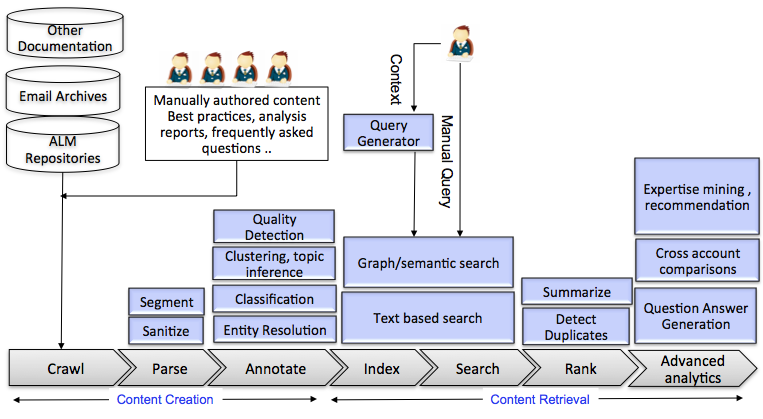
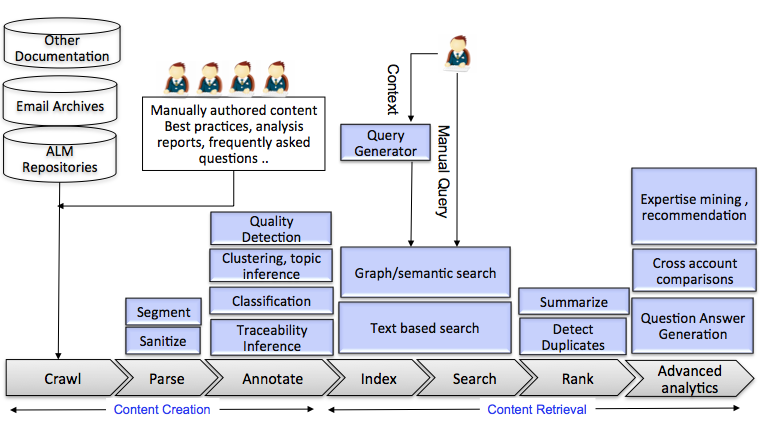
completed bib for KM section

Changed region(s): [[0.0, 0.0, 0.9961, 0.9928]]

diff --git a/km_new.tex b/km_new.tex
@@ -40,8 +40,8 @@ leverage learning and solutions from past client engagements in the context of a
 new similar engagement, even when members from the past projects are not around.
 
 The need for organization-level knowledge bases is well established in the
-management literature~\cite{}. Equally well known is the fact that creating an
-effective organization-wide knowledge base is very challenging~\cite{}. There
+management literature~\cite{davenport2000working,bollinger2001managing}. Equally well known is the fact that creating an
+effective organization-wide knowledge base is very challenging~\cite{McKinsey:1999,Harvard:1999,Ernst:1997}. There
 are challenges in: (1) \textit{knowledge creation}---how to codify explicit and
 tacit knowledge and motivate individuals to contribute; (2) \textit{knowledge
   retrieval}---data versus information versus knowledge; (3) \textit{knowledge
@@ -49,7 +49,7 @@ tacit knowledge and motivate individuals to contribute; (2) \textit{knowledge
 knowledge. Alavi and Leidner~\cite{Alavi:2001} present a good overview of
 research issues in organization knowledge management. Prior research suggests
 that IT is incapable of capturing organizational knowledge
-\cite{malhotra2004knowledge,Davenport:1997}, but also postulates that IT is the
+\cite{malhotra2004knowledge,mcdermott2000information}, but also postulates that IT is the
 strongest enabler for organization knowledge management systems (OKMS).
 
 Next, we present three scenarios illustrating the need for OKMS in service
@@ -90,7 +90,9 @@ another client. Thus, if the person attempting to resolve the current ticket had
 access to previously resolved tickets addressing similar problems, they could be
 much more efficient and effective at their task.  Therefore, a knowledge base
 that stores past resolved tickets across clients would be a useful
-organization-wide resource.
+organization-wide resource. 
+
+In a way this knowledge base would be similar to question and answer forums we see on various software languages, tools, open source projects on the WWW. 
 
 \subsubsection{Design-build Projects}
 
@@ -115,7 +117,9 @@ through the repository to learn about the variations of the process to be
 implemented and, if the client requirements are not too different from a past
 solution, even reuse the solution in totality or parts. This can reduce the
 overall cost and also potentially let the service provider staff the team with
-people with less domain experience.
+people with less domain experience. 
+
+Code reuse has been an area of interest to software engineering community, be it reuse of a couple of code lines, API use or even complete solutions \cite{Reiss:2009,Holmes:2013}. Much of this work can be applied in an services organization setting too.
 
 \subsubsection{Service Improvement}
 
@@ -135,11 +139,12 @@ taken. Moreover, if a similar high-ticket-volume problem was seen in the past in
 another client's payroll system, information about the actions taken for that
 client could help the team resolve the problem for client~A.
 
-Again in this scenario, an organization-wide knowledge base that (1) captures key
+There are a number of organizations that gather and report quantitative benchmark information (qualitiative as well as productivity) for software projects and business applications depending on language used to code, number of users etc. CAST, Software Engineering Institute are some examples of such organizations. However, considering services organizations are doing multiple software implementations for multiple clients, an organization-wide knowledge base that (1) captures key
 operational metrics per application (or at a more granular level, such as by
 problem area) per client and the past improvement actions taken, and (2) allows
 comparisons between clients with similar applications and problems encountered,
-would be very useful.
+would help augment what is publicly available and be more useful.
+
 
 \begin{figure*}
 	\center
@@ -158,11 +163,14 @@ Figure ~\ref{fig-km} shows the advanced the architecture for an OKMS system in s
 
 \subsubsection{Content Creation}
 
-The first challenge in building an OKMS system is identifying what data should be put in the repository and how to obtain the data. An organization has the option of mandating that each of it's employees contributes their learnings to the OKMS system. Some examples of manual knowledge creations are: (1) frequently asked question, where employee outlines the typical solutions to some common problem tickets they have resolved (2) postmortem reports, usage stories, experience reports\cite{desouza:2005}, that project members can create after they solve a key issue in the project. To enable solution reuse, services organizations often invest in creating software product families \cite{clements2002software}. However, here it's pre-anticipated what could be some solutions that could be of interest to multiple clients in a particular domain such as healthcare and then those solutions are created with appropriate points for variability built in, so solution can be customized for any client intending to use it.  Once a project is completed, employees are also encouraged to identify reusable components in software they created and share them in the knowledge base. This approach of manual content creation adds extra burden on the employees. An open research challenge is to motivate employees to contribute high quality content in the knowledge base \cite{}. Open source forums such as stack exchange have experimented with elaborate incentive mechanisms in forms of badges to ensure questions and answer contributions on their forums \cite{}. In services organizations are reputation building incentives enough or incentives should translate to monetory benefits and/or career progression? 
+The first challenge in building an OKMS system is identifying what data should be put in the repository and how to obtain the data. An organization has the option of mandating that each of it's employees contributes their learnings to the OKMS system. Some examples of manual knowledge creations are: (1) frequently asked question, where employee outlines the typical solutions to some common problem tickets they have resolved (2) postmortem reports, usage stories, experience reports\cite{desouza:2005}, that project members can create after they solve a key issue in the project. To enable solution reuse, services organizations often invest in creating software product families \cite{clements2002software}. However, here it's pre-anticipated what could be some solutions that could be of interest to multiple clients in a particular domain such as healthcare and then those solutions are created with appropriate points for variability built in, so solution can be customized for any client intending to use it.  Once a project is completed, employees are also encouraged to identify reusable components in software they created and share them in the knowledge base. This approach of manual content creation adds extra burden on the employees. An open research challenge is to motivate employees to contribute high quality content in the knowledge base \cite{hendriks1999share}. Open source forums such as stack exchange have experimented with elaborate incentive mechanisms in forms of badges to ensure questions and answer contributions on their forums \cite{vasilescu2014social}. In services organizations are reputation building incentives enough or incentives should translate to monetory benefits and/or career progression /cite{bartol2002encouraging}? 
 
-Another approach for content creation is to auto-harvest artifacts produced in the SDLC lifecycle and put these in the knowledge management system. Complete traceability from requirement through code to test cases, along with their content is extractable from Application Lifecycle Management tools and this can act as solution packs to put in the repository. Similarly for ticket resolution, information about problem ticket and it's resolution is extractable from ticket management systems. Account teams periodically report on various important metrics on the applications being maintained in the client landscape such as ticket volumes, code changes, service improvement actions taken. These reports can be auto pushed into the knowledge repository. The main challenge here is crawling and parsing of this data from various tools and work product templates being used across clients and collating this information into a standardized format that can be pushed into the knowledge repository. Many of this work products are documents in proprietery formats such as Microsoft word, power point slides, visio diagrams, excel sheets. How to automate content extraction from client specific work products into the standard format used by knowledge repository is again a direction for research. One approach is to write model to model transforms where a project admin can specify the mapping \cite{debdoot:2010:scc}. Another challenge is that requisite traceability information that is required to understand complete context of how and why an artifact was produced, might be missing. This is because tools being used to create different SDLC artifacts have not ben integrated. In such cases, research can help come up with various heuristics to infer traceablity \cite{}. For example, if making a code commit, the developer puts in a comment like "Fixed Bug \#145", then with high confidence the change is to fix "Bug \#145" and corresponding edge between code file and bug report can be created. In text mining literature, given pieces of text the process to resolve entities and detect relationships therein is called entity resolution \cite{}. Entity resolutions techniques customized for SDLC data can help alleviate challenges in standardizing auto-harvested content.
+Another approach for content creation is to auto-harvest artifacts produced in the SDLC lifecycle and put these in the knowledge management system. Complete traceability from requirement through code to test cases, along with their content is extractable from Application Lifecycle Management tools and this can act as solution packs to put in the repository. Similarly for ticket resolution, information about problem ticket and it's resolution is extractable from ticket management systems. Account teams periodically report on various important metrics on the applications being maintained in the client landscape such as ticket volumes, code changes, service improvement actions taken. These reports can be auto pushed into the knowledge repository. The main challenge here is crawling and parsing of this data from various tools and work product templates being used across clients and collating this information into a standardized format that can be pushed into the knowledge repository. Many of this work products are documents in proprietery formats such as Microsoft word, power point slides, visio diagrams, excel sheets. How to automate content extraction from client specific work products into the standard format used by knowledge repository is again a direction for research. One approach is to write model to model transforms where a project admin can specify the mapping \cite{debdoot:2010:scc}. Another challenge is that requisite traceability information that is required to understand complete context of how and why an artifact was produced, might be missing. This is because tools being used to create different SDLC artifacts have not been integrated. There is need to auto infer traceability between artifacts
+For example, if making a code commit, the developer puts in a comment like "Fixed Bug \#145", then with high confidence the change is to fix "Bug \#145" and traceability edge between code file and bug report should be auto-created. 
+. Tracability inference is an active area of research \cite{spanoudakis2005software}. Some proposed approaches use information retrieval (IR) techniques, others use traceability rules, special integrators, and inference axioms.
 
-The content put in the OKMS should be organized in such a way that retrieval becomes easier when someone needs it. The general practice is to classify OKMS content against pre-defined taxonomies. One taxonomy is obviously the object type i.e. requirement, code, problem ticket (further segmented into problem description, resolution). Another taxonomy captures the domain the artifact was produced in i.e. industry type and process area e.g. \cite{apqc,bph}. Another taxonomy is the technology used. Organizations spend effort building and maintaining these taxonomies. For every data that is put into the knowledge base, the content needs to be manually categorized against these pre-defined taxonomies. Classification (machine learning) based approaches can be used to auto-categorize content to these pre-defined taxonomies. These techniques rely on the availability of equal proportion of positive and negative samples to train a learning model. However, due to unavailability of training data and/or lack of differentiating features, usual learning techniques such as naive bayes, support vector machines, decision trees, might end up not giving desired efficacy (measured as precision and recall). There is need to customize more advanced learning approaches such as adaptive learning, ensemble techniques or develop new techniques that work well with SDLC data. Another interesting area for research is to explore how to help grow the taxonomy over time based on content coming in the knowledge base. Techniques such as text clustering, topic modeling \cite{} help group together similar looking content and infer topics out of them. 
+
+The content put in the OKMS should be organized in such a way that retrieval becomes easier when someone needs it. The general practice is to classify OKMS content against pre-defined taxonomies. One taxonomy is obviously the object type i.e. requirement, code, problem ticket (further segmented into problem description, resolution). Another taxonomy captures the domain the artifact was produced in i.e. industry type and process area e.g. \cite{apqc,bph}. Another taxonomy is the technology used. Organizations spend effort building and maintaining these taxonomies. For every data that is put into the knowledge base, the content needs to be manually categorized against these pre-defined taxonomies. Pattern matching and machine learning based classification approaches /cite{bishop2006pattern} can be used to auto-categorize content to these pre-defined taxonomies. These techniques rely on the availability of equal proportion of positive and negative samples to train a learning model. However, due to unavailability of training data and/or lack of differentiating features, usual learning techniques such as naive bayes, support vector machines, decision trees, might end up not giving desired efficacy (measured as precision and recall). There is need to customize more advanced learning approaches such as adaptive learning, ensemble techniques or develop new techniques that work well with SDLC data. Another interesting area for research is to explore how to help grow the taxonomy over time based on content coming in the knowledge base. Techniques such as clustering \cite{Berkhin06}, topic modeling \cite{Blei:2012} help group together similar looking content and infer topics out of them. 
 
 The content in a OKMS database comes from various client projects. There are strict privacy constraints around what data is client confidential and hence cannot be shared. Within a single artifact itself, there might be small portions of content that are client confidential. E.g. a problem ticket might content the contact information of the user who encountered the information. How to remove client confidential data from artifacts put in the repository, how to anonimize the content so as to not disclose client identity and how to ensure that only authorized users and roles have access.
 
@@ -172,17 +180,18 @@ To summarize, content creation in OKMS provides multiple oppurtunities where res
 
 \subsubsection{Content Retrieval}
 
-A good OKMS system is one that not only had good content, but one that makes it easy to retrieve the content when needed. Typical ways to retrieve content from a knowledge base are: (1) keyword based search where user specifies a couple of words (s)he is looking for and all artifacts in the repository that contain the words from user query are returned, (2) faceted (or navigational) search where user is shown a hierarchy structure (taxonomy) and can browse information by choosing one or more values from each of the pre-defined categories. Various information retrieval models such as vector space models \cite{}, probablistic models \cite{}, latent semantic index \cite{} exist that can be used here. But inspite of easy to use search technologies being available, prior studies report that knowledge retrieval from organization wide repositories remains a challenge. As per \cite{idc,idc2}, while employees spend 15\% to 35\% of their time searching for information in an enterprise, they are successful less than 50\% of the time in finding what they are looking for. 
+A good OKMS system is one that not only had good content, but one that makes it easy to retrieve the content when needed. Typical ways to retrieve content from a knowledge base are: (1) keyword based search where user specifies a couple of words (s)he is looking for and all artifacts in the repository that contain the words from user query are returned, (2) faceted (or navigational) search where user is shown a hierarchy structure (taxonomy) and can browse information by choosing one or more values from each of the pre-defined categories. Various language based information retrieval models \cite{manning2008introduction} such as vector space models, probablistic models, latent semantic index exist that can be used here. But inspite of easy to use search technologies being available, prior studies report that knowledge retrieval from organization wide repositories remains a challenge. As per \cite{idc,idc2}, while employees spend 15\% to 35\% of their time searching for information in an enterprise, they are successful less than 50\% of the time in finding what they are looking for. 
 
-Non-availability of content or poorly organized content can be one reason for this. Another reason could be the inadequacy of the query itself that are used to retrive the content. Suppose a user is trying to find problem tickets that resolved similar issues to what (s)he has been assigned. (S)he would pick up a couple of words from the ticket that describe the problem and use it to query the knowledge base. However, these words might not be discriminative enough and user might end up getting too many or too little search hits. Another approach could be to use complete content in the ticket and use it as query. However in this case, the search engine might end up returning irrelevant results as equal weightage was given to all words in the problem ticket. \cite{Sinha:2012} tries to address this issue by giving more weightage to those words in the query that belong to ticket title. \cite{Ashok:2009} parses out different datatypes from a problem ticket such as description, application information, stack trace and using a different query/search mechanism for each. E.g. instead of just specifying "null pointer exception", the query generated from a problem ticket could be---description: contains following bag of words \{null, pointer, exception\}, process: is equal to "order to cash", stack trace: contains foo.*bar. The results obtained from such a query are likely to be more precise than what a keyword search would yield. A challenge with this approach is how to compose the various clauses in the query---are they "anded" or "ored" or a combination. Another challenge is how much weightage to give to each clause when ranking the search results \cite{Debdoot:2011:bpm}. Moreover, recently contextual search \cite{} has been gaining momentum. Contextual search tries to better capture a user's information need by augmenting the query with contextual information extracted from search context. It would be an interesting direction for future research to see for each of the knowledge needs in services organizations, what can make up the context, how to use this context to create the query and how to weigh different clauses in the query. 
+Non-availability of content or poorly organized content can be one reason for this. Another reason could be the inadequacy of the query itself that are used to retrive the content. Suppose a user is trying to find problem tickets that resolved similar issues to what (s)he has been assigned. (S)he would pick up a couple of words from the ticket that describe the problem and use it to query the knowledge base. However, these words might not be discriminative enough and user might end up getting too many or too little search hits. Another approach could be to use complete content in the ticket and use it as query. However in this case, the search engine might end up returning irrelevant results as equal weightage was given to all words in the problem ticket. \cite{Sinha:2012} tries to address this issue by giving more weightage to those words in the query that belong to ticket title. \cite{Ashok:2009} parses out different datatypes from a problem ticket such as description, application information, stack trace and using a different query/search mechanism for each. E.g. instead of just specifying "null pointer exception", the query generated from a problem ticket could be---description: contains following bag of words \{null, pointer, exception\}, process: is equal to "order to cash", stack trace: contains foo.*bar. The results obtained from such a query are likely to be more precise than what a keyword search would yield. A challenge with this approach is how to compose the various clauses in the query---are they "anded" or "ored" or a combination. Another challenge is how much weightage to give to each clause when ranking the search results \cite{Debdoot:2011:bpm}. Moreover, recently contextual search \cite{wen2004probabilistic,kraft2005q} has been gaining momentum. Contextual search tries to better capture a user's information need by augmenting the query with contextual information extracted from search context. It would be an interesting direction for future research to see for each of the knowledge needs in services organizations, what can make up the context, how to use this context to create the query and how to weigh different clauses in the query. 
 
-Any search based system would return multiple results. For the user it becomes a chore in itself to go over each of the search results and identify if it is relevant or not. Techniques that can help the user easily comprehend the relevance of the returned results are much needed. Text based search engines highlight the matching words between query and content of the artifact returned. However, when the query becomes complex (as above), keyword highlighting is not of much help. In text processing domain, summarization is one approach that is used to help end users get a quick idea of what the content is about. In \cite{Mani:2012,Rastkar:2010} authors present different techniques to summarize bug reports. Research can help in developing summarization techniques that work for other SDLC artifact such as code, requirements, solution design documents and so on. Further, out of the search results returned many artifacts could be duplicates or near duplicates of each other. In order to reduce information overload for end user, the OKMS system should be able to group together duplicates and near duplicates and be able to highlight the variances in seemingly similar artifacts returned in the search results. Duplicate bug report detection \cite{} has been a widely researched topic. Similarly for each of the artifact of interest from a services OKMS perspective, a customized duplicate detection approach might be needed. 
+Any search based system would return multiple results. For the user it becomes a chore in itself to go over each of the search results and identify if it is relevant or not. Techniques that can help the user easily comprehend the relevance of the returned results are much needed. Text based search engines highlight the matching words between query and content of the artifact returned. However, when the query becomes complex (as above), keyword highlighting is not of much help. In text processing domain, summarization is one approach that is used to help end users get a quick idea of what the content is about. In \cite{Mani:2012,Rastkar:2010} authors present different techniques to summarize bug reports. Research can help in developing summarization techniques that work for other SDLC artifact such as code, requirements, solution design documents and so on. Further, out of the search results returned many artifacts could be duplicates or near duplicates of each other. In order to reduce information overload for end user, the OKMS system should be able to group together duplicates and near duplicates and be able to highlight the variances in seemingly similar artifacts returned in the search results. Duplicate bug report detection \cite{wang2008approach,sun2010discriminative} has been a widely researched topic. Similarly for each of the artifact of interest from a services OKMS perspective, a customized duplicate detection approach might be needed. 
 
-Most existing OKMS systems use text based IR models to store and retrieve knowledge. However, as we saw in content creation section, the repository is not just a collection of artifacts but a network of linked artifacts. Graph based search \cite{}, semantic search \cite{} are other techniques to store and retrieve knowledge and it is definitely worth investigating if any of these work better than more prevelant IR techniques for the various OKMS needs in a services organization. 
+Most existing OKMS systems use language based IR models to store and retrieve knowledge. However, as we saw in content creation section, the repository is not just a collection of artifacts but a network of linked artifacts. Use of graph databases for data storage and retrieval techniques such as semantic search techniques \cite{Guha:2003} or optimizing keyword search for graphs \cite{kacholia2005bidirectional}, are worth exploring.
 
 OKMS today stops at providing search capabilities. Given a user query, the system returns back matching artifacts but makes no attempt at making any deductions. Consider the scenario of troubleshooting. A user is searching through the past resolved ticket repository to see if similar issues were resolved. There are multiple reasons why the issues could have arisen. Based on past tickets, the user needs to come up with potential hypothesis of why the issue could be arising and based on conditions (s)he is seeing in the current landscape decide what hypothesis is applicable and then pick the appropriate solution. From such a user's perspective the OKMS system would be more effective if it were able to auto-generate these potential root causes and solutions hypothesis. Consider the service improvement use case, the accout team needs support from OKMS to identify similar projects, then compare the problems seen in the current project with different kind of issues arising in similar projects, then judge whether current team is doing better or worse and then decide to take some action. What kind of capabilities are needed in OKMS system to be useful in above scenarios is another area for research. 
 
-Till now what we have discussed is what is called codification strategy \cite{} in knowledge management literature. In codification knowledge is carefully captured and stored in the database, where it can be accessed and used by anyone in the company. This strategy allows many people to search for and retrieve knowledge without having to contact the person who originally developed it. This opens up the possibility of achieving required scale in knowledge reuse in services organizations. Another strategy for knowledge management is personalization. Here knowledge is  tied to person who developed is and is shared mainly through direct person-to-person contacts. The chief purpose of knowledge management system here is to help people find and connect to other people who have requisite knowledge, not to store it. This strategy works well when knowledge cannot be codified especially knowledge required to handle situations that require complex decision making. Projects like expertise browser \cite{}, expertise recommender \cite{} have attempted to identify experts on various topics within a project. In an organization setting, what information to use to mine expertise and how to match your current context and job profile to suggest people you should have in your network is another scenario where research can help. 
+There are two techniques for organization knowledge management, codification or personalization \cite{hansen2000s}.
+Till now what we have discussed is what is called codification. Here knowledge is carefully captured and stored in the database, where it can be accessed and used by anyone in the company. This strategy allows many people to search for and retrieve knowledge without having to contact the person who originally developed it. This opens up the possibility of achieving required scale in knowledge reuse in services organizations. Another strategy for knowledge management is personalization. Here knowledge is  tied to person who developed is and is shared mainly through direct person-to-person contacts. The chief purpose of knowledge management system here is to help people find and connect to other people who have requisite knowledge, not to store it. This strategy works well when knowledge cannot be codified especially knowledge required to handle situations that require complex decision making. Expertise browser \cite{Mockus:2002}, expertise recommender \cite{McDonald:2000} have attempted to identify experts on various topics within a project. \cite{Balog:2006} has explored expertise mining and recommendation in predominantly document based OKMS systems. What information to use to mine expertise when repository contains SDLC data from multiple projects, how to match your current context and job profile to suggest people you should have in your network is another scenario where research can help. 
 
-To summarize, content retrieval in OKMS system provides open research problems in query generation and use of context to augment queries, search result summarization, duplicate detection, use of semantic search to improve search relevance. Further the retrieval capabilities need to move beyond just search to provide capabilities such as question-answer generation, cross-account comparison/benchmarking and expertise mining and expert recommendation.
+To summarize, content retrieval in OKMS system provides open research problems in query generation and use of context to augment queries, search result summarization, duplicate detection, use of semantic search to improve search relevance. Further the retrieval capabilities need to move beyond just search to provide capabilities such as question-answer generation, cross-account comparison/benchmarking and expertise recommendation.
 
